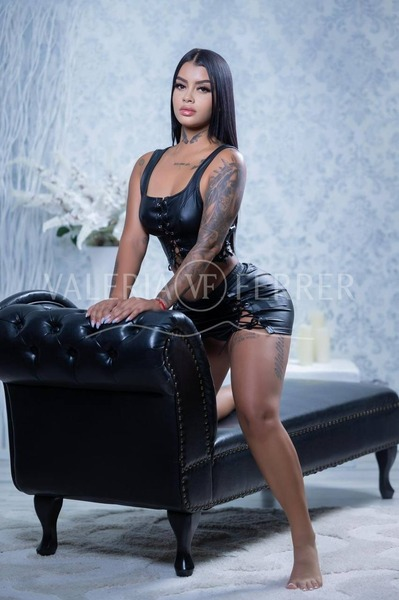
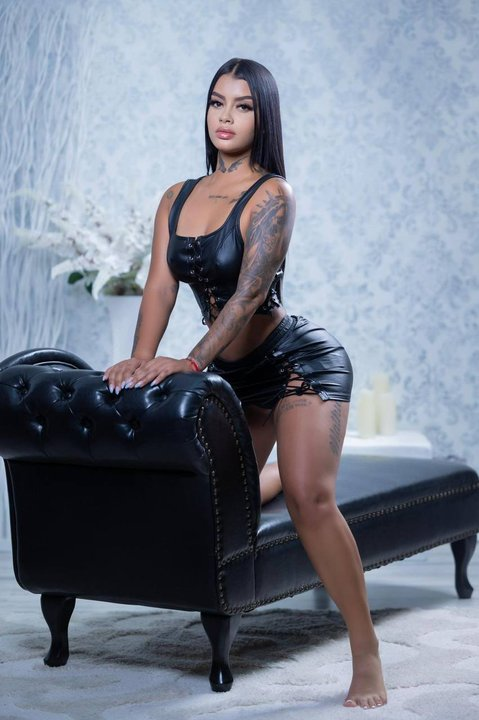
fix: clean Paula/Carol/Adara/Martina/Camila/Silvia catalog covers
Replace stamped cover photos with matched disk originals at the same paths, refresh thumbs, and tighten Camila/Silvia card framing without layout changes.

diff --git a/styles/valeria-luxury-v5.css b/styles/valeria-luxury-v5.css
@@ -161,6 +161,13 @@
 .vf-luxury-card[data-profile-slug="monica"] .vf-luxury-card__media>img:not(.vf-photo-firma):not(.vf-luxury-card__firma){
   object-position:48% 30%;
 }
+.vf-luxury-card[data-profile-slug="camila"] .vf-luxury-card__media>img:not(.vf-photo-firma):not(.vf-luxury-card__firma){
+  object-position:50% 28%;
+}
+.vf-luxury-card[data-profile-slug="silvia"] .vf-luxury-card__media>img:not(.vf-photo-firma):not(.vf-luxury-card__firma){
+  object-position:50% 30%;
+}
+
 .vf-luxury-card__placeholder{
   position:absolute;inset:0;background:radial-gradient(ellipse at 50% 30%,#5e2d3d,#1f1017 78%);
 }
